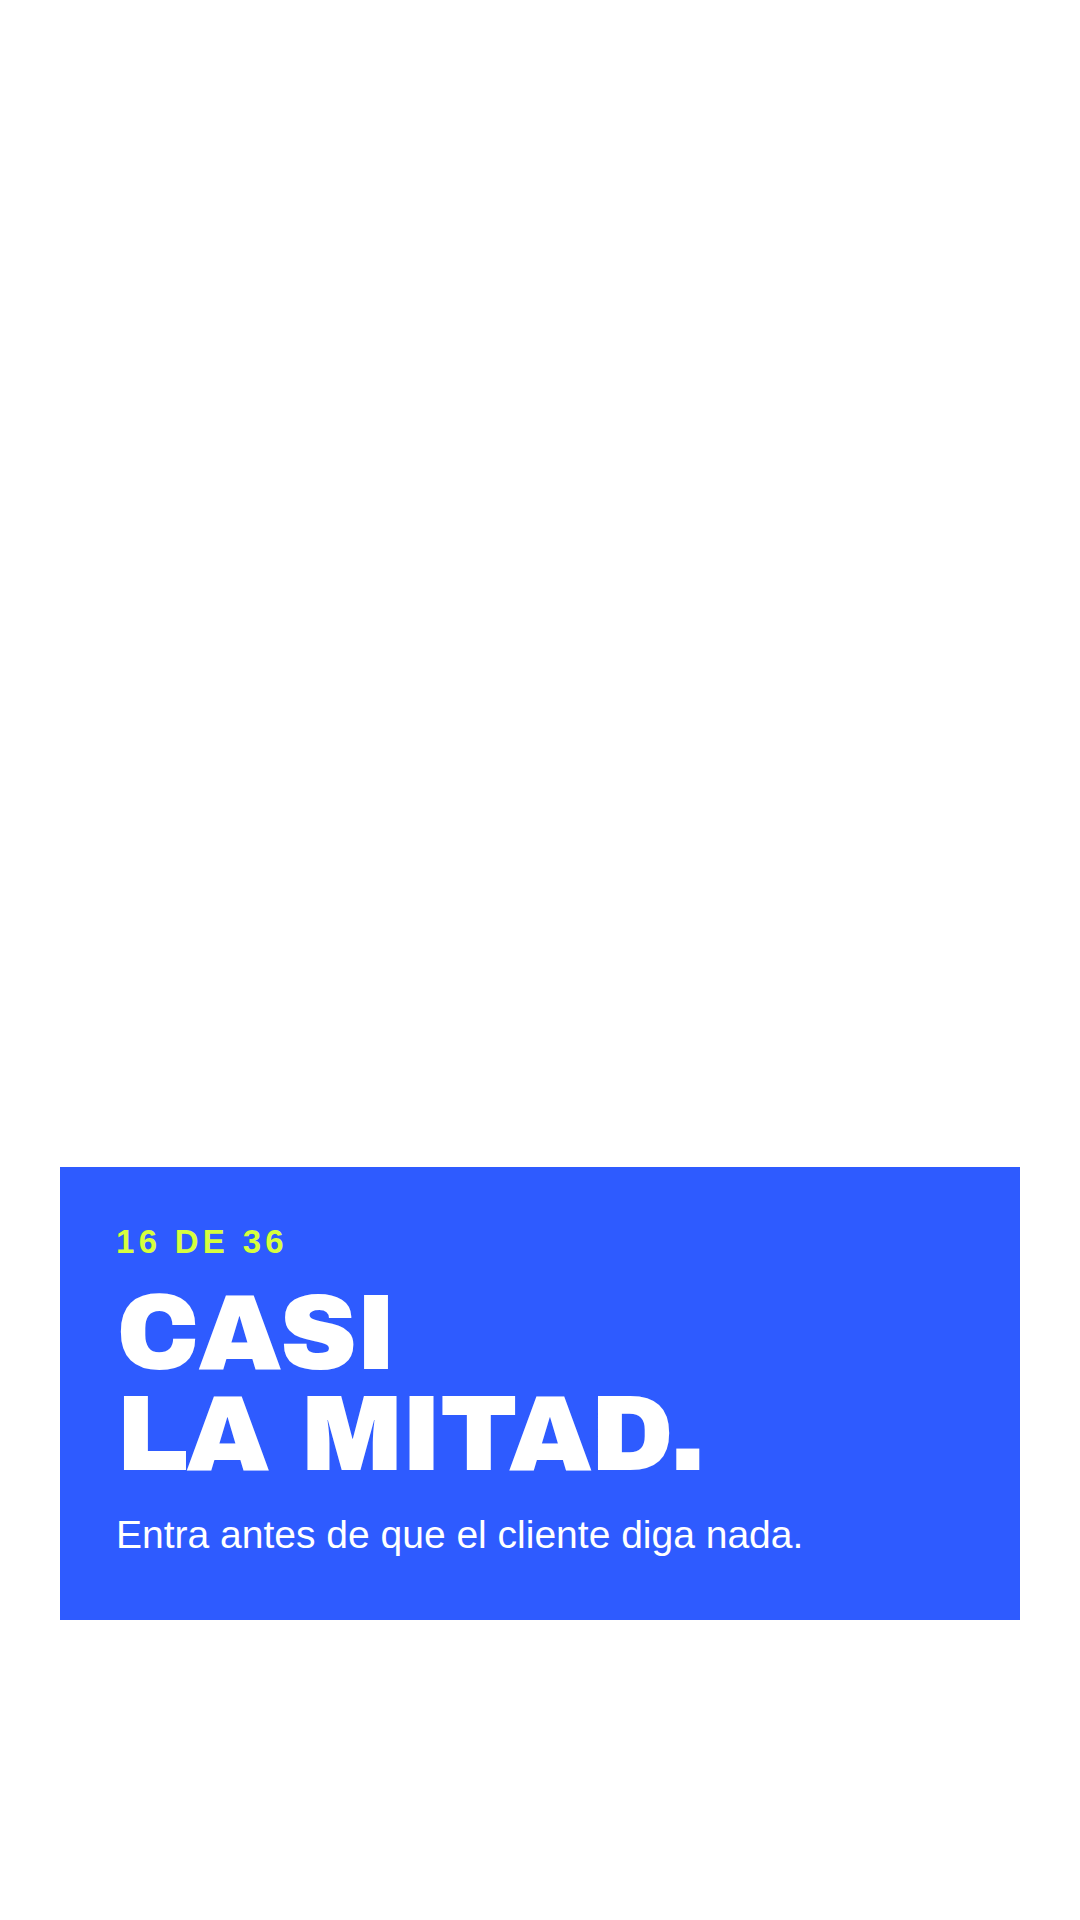
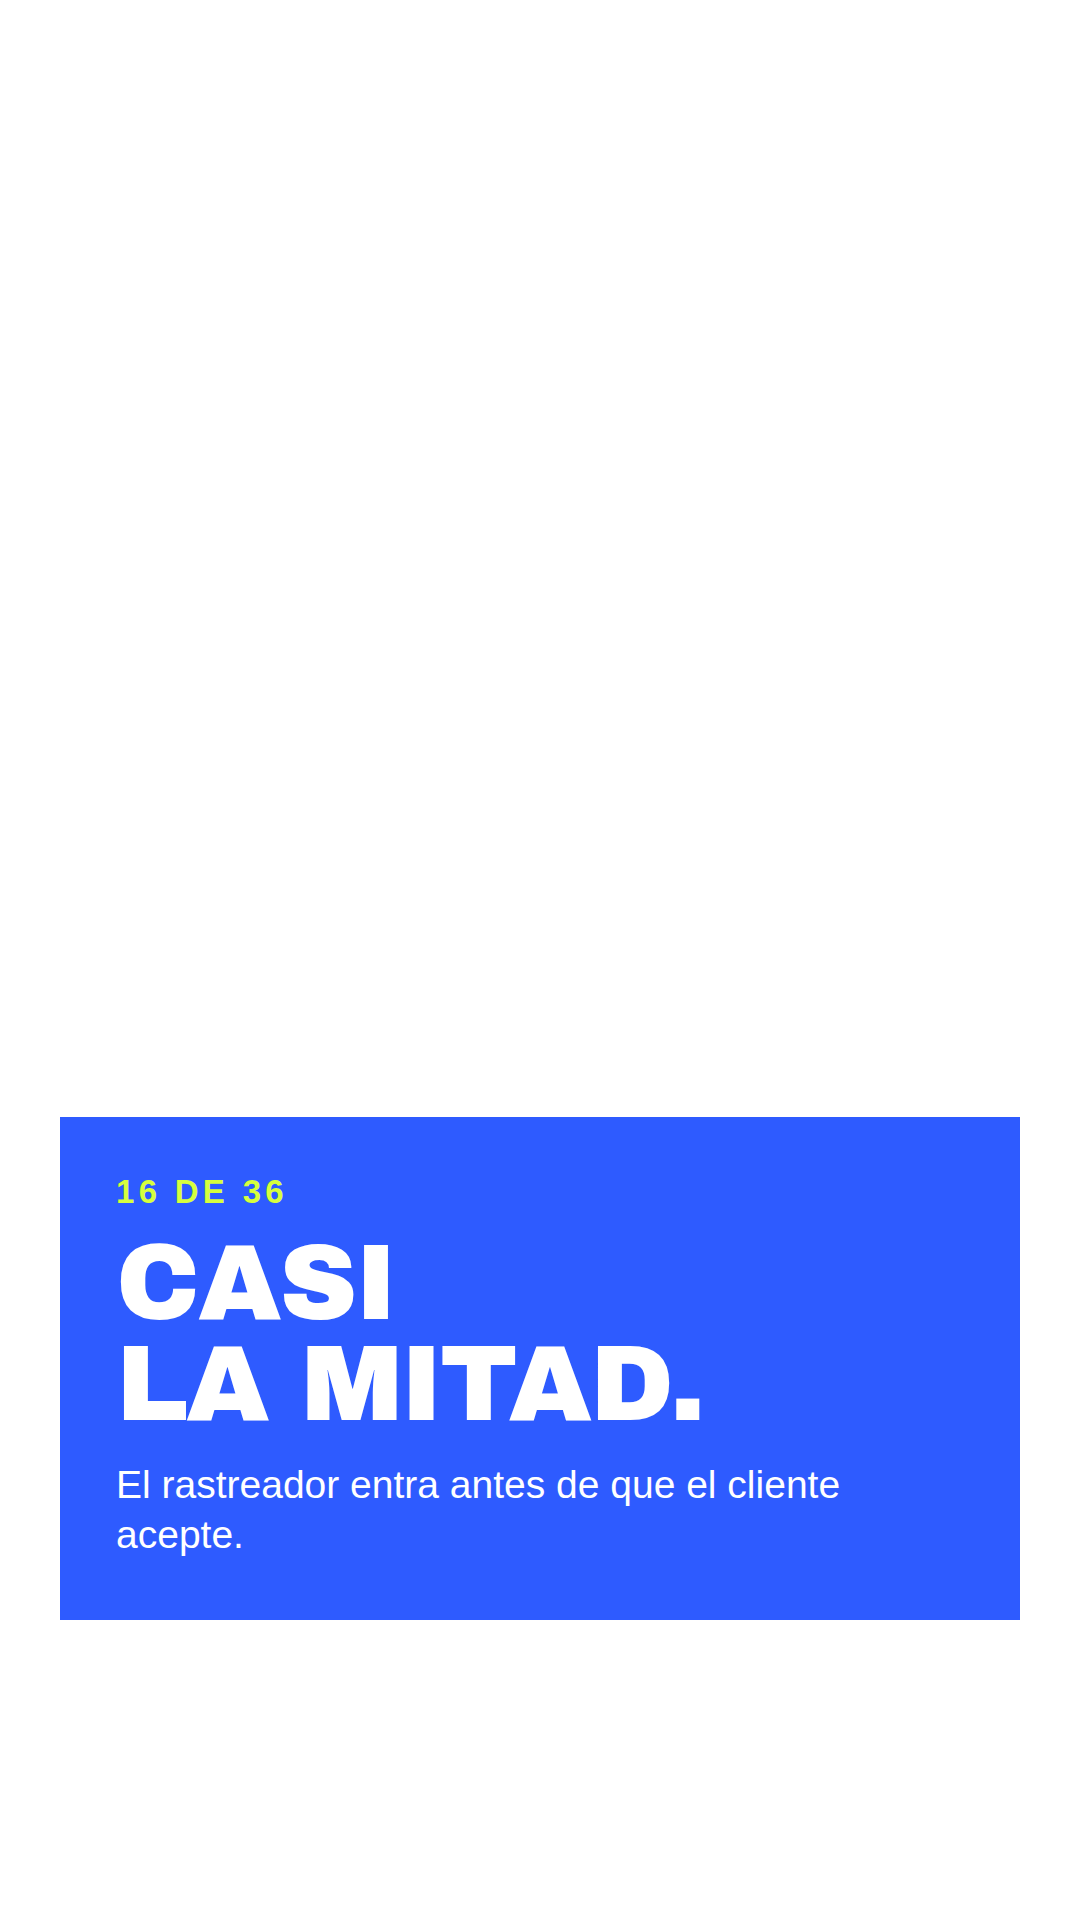
"Rastreador" en vez de "algo", y un solo tu por guion
Dos rechazos de Ramon ensayando, y los dos dejan regla.

(a) "Algo" no es una palabra. El 30-oct saque "cookie" por tecnica y la reemplace
por "algo": pase de demasiado tecnico a vacio. Desde ahi todas las frases
siguientes apuntaban a un hueco, y por eso Ramon no entendia ninguna: "se arregla
con un cartel" que cosa, "la herramienta de medicion" cual, "si dice que si"
quien. Era un solo defecto, no cuatro.

La palabra que sirve es "rastreador": cualquiera la entiende y carga el peligro
ella sola. Y "cookies" vuelve, pero solo para nombrar el cartel, que es como todo
el mundo lo reconoce. Una palabra tecnica puede estorbar en un tramo y ayudar en
otro; la regla del 30-oct queda matizada asi.

(b) El "tu" cambiaba de dueno a mitad de frase. Todo el guion le habla al dueno
del cafe, pero "si aceptas cookies" le habla al visitante. Queda "que le pregunta
al cliente si acepta las cookies". Revisados los dieciseis renglones, esa era la
unica fuga.

Regla: un guion tiene un solo "tu", y es el que compra. Lo que NO es fuga, y queda
dicho para que nadie lo iguale: la tarjeta del cartel si le habla al visitante,
porque ahi no habla Ramon, habla el cartel.

Tarjetas g1-1 y g1-2 al dia con la palabra nueva.

Claude-Session: https://claude.ai/code/session_01CR5SfVdVRLCtMzHMRctqPx

Changed region(s): [[0.0611, 0.5625, 0.9472, 0.8125]]

diff --git a/marketing/redes/2026-11-noviembre-verifica/tarjetas/overlay-bloque.html b/marketing/redes/2026-11-noviembre-verifica/tarjetas/overlay-bloque.html
@@ -111,8 +111,8 @@
   // rehace aca. Azul 0, rosa 0 en toda la tanda.
   const T = [
     // ---- Guion 1 · cafes ----
-    { id:'g1-1', etiqueta:'',             linea:'LO GUARDA<br>SIN PREGUNTAR.',          cuerpo:'' },
-    { id:'g1-2', etiqueta:'16 de 36',     linea:'CASI<br>LA MITAD.',                    cuerpo:'Entra antes de que el cliente diga nada.' },
+    { id:'g1-1', etiqueta:'',             linea:'UN RASTREADOR<br>SIN PREGUNTAR.',      cuerpo:'' },
+    { id:'g1-2', etiqueta:'16 de 36',     linea:'CASI<br>LA MITAD.',                    cuerpo:'El rastreador entra antes de que el cliente acepte.' },
     { id:'g1-3', etiqueta:'',             linea:'PUEDES SEGUIR<br>MIDIENDO.',           cuerpo:'Preguntándole al cliente primero.' },
     { id:'g1-4', cartel:{ t:'¿Medimos tu visita?', p:'Para saber si nuestra publicidad funcionó. Puedes decir que no.', b1:'Aceptar', b2:'No, gracias' } },
     // ---- Guion 2 · salud ----

diff --git a/marketing/redes/2026-11-noviembre-verifica/tarjetas/overlay.html b/marketing/redes/2026-11-noviembre-verifica/tarjetas/overlay.html
@@ -106,8 +106,8 @@
   // rehace aca. Azul 0, rosa 0 en toda la tanda.
   const T = [
     // ---- Guion 1 · cafes ----
-    { id:'g1-1', etiqueta:'',             linea:'LO GUARDA<br>SIN PREGUNTAR.',          cuerpo:'' },
-    { id:'g1-2', etiqueta:'16 de 36',     linea:'CASI<br>LA MITAD.',                    cuerpo:'Entra antes de que el cliente diga nada.' },
+    { id:'g1-1', etiqueta:'',             linea:'UN RASTREADOR<br>SIN PREGUNTAR.',      cuerpo:'' },
+    { id:'g1-2', etiqueta:'16 de 36',     linea:'CASI<br>LA MITAD.',                    cuerpo:'El rastreador entra antes de que el cliente acepte.' },
     { id:'g1-3', etiqueta:'',             linea:'PUEDES SEGUIR<br>MIDIENDO.',           cuerpo:'Preguntándole al cliente primero.' },
     { id:'g1-4', cartel:{ t:'¿Medimos tu visita?', p:'Para saber si nuestra publicidad funcionó. Puedes decir que no.', b1:'Aceptar', b2:'No, gracias' } },
     // ---- Guion 2 · salud ----

diff --git a/marketing/redes/2026-11-noviembre-verifica/00-tanda-cuatro-reels.md b/marketing/redes/2026-11-noviembre-verifica/00-tanda-cuatro-reels.md
@@ -244,18 +244,23 @@ Una frase por renglón, que es como manda leerlo el manual. Las `/` son respirac
 cortes.
 
 > Pagar publicidad en Instagram está **bien**. / Medir si **funcionó**, también. //
-> **Pero** para medir, / tu sitio guarda algo / en el teléfono del **cliente**. //
-> Y lo guarda / antes de que **acepte** nada. //
+> **Pero** para medir, / tu sitio instala un **rastreador** de Facebook / en el teléfono del
+> **cliente**. //
+> Sirve para reconocerlo cuando **vuelva**. //
+> Y se instala antes de que el cliente **acepte** nada. //
 > En casi la **mitad** de los cafés y pastelerías que **revisé**, / pasa eso mismo. //
-> No es que tu sitio esté **mal hecho**. / Es lo que instalaste para **medir**, funcionando. //
-> Puedes seguir **midiendo** igual. / Solo hay que preguntarle al cliente **primero**. //
-> Y esa pregunta va a ser **obligatoria** por ley. //
-> Es una **franja** abajo de tu sitio / que le pregunta al cliente si **acepta**. //
-> Hice un chequeo **gratis** / que te dice si tu sitio tiene esa **franja**. //
+> No es que tu sitio esté **mal hecho**. //
+> El rastreador vino con la **publicidad**, / y trabaja apenas alguien **entra**. //
+> Nadie le dijo que **esperara**. //
+> Se arregla con ese **cartel** / que le pregunta al cliente / si acepta las **cookies**. //
+> El que **ves** en cualquier sitio europeo. //
+> Si el cliente **acepta**, / mides igual que **hoy**. //
+> Y preguntar **primero** va a ser obligatorio por ley. //
+> Hice un chequeo **gratis** / que te dice si tu sitio lo **tiene**. //
 > Soy **Ramón**, de SpindleLab. //
 > **Medir** está bien. / Preguntar **primero**, también. //
 
-**118 palabras, 41 segundos.** Largo por renglón: 6, 4, 15, 15, 16, 11, 9, 14, 13, 4, 7.
+**133 palabras, 46 segundos.**
 
 **Versión 9, del 30-oct.** Ramón tiene aprobada la apertura, la costura y todo lo que va de la
 franja hacia abajo. **La palabra «cookie» no aparece en ningún guion hablado de esta campaña**, por
@@ -751,3 +756,36 @@ pago. **Se toma la arquitectura, no el tono.**
 
 ⚠ **Pendiente: los otros tres guiones no tienen quita-excusas ni la prueba subida.** Salud,
 contabilidad y tutorial se escribieron antes de esta guía y hay que pasarlos por el mismo chequeo.
+
+### 2-nov-2026 · nombrar la cosa, y el «tú» que cambiaba de dueño
+
+Dos rechazos de Ramón ensayando en voz alta, y los dos valen como regla.
+
+**(a) «Algo» no es una palabra.** Ramón: *"tu sitio guarda algo en el teléfono del cliente. ¿Qué es
+eso? ¿Guarda un seguimiento?... ¿qué es lo peligroso? Entonces no se entiende ahí"*. Y después, en
+cadena: *"la herramienta de medición, ahí no entiendo"*, *"se arregla con un cartel, ahí tampoco"*.
+
+**Era un solo defecto, no cuatro.** El 30-oct saqué la palabra «cookie» por técnica y la reemplacé
+por «algo». **Pasé de demasiado técnico a vacío**, y desde ahí todas las frases siguientes apuntaban
+a un hueco: *se arregla* ¿qué?, *la herramienta* ¿cuál?, *si dice que sí* ¿quién?
+
+La palabra que sirve es **«rastreador»**: cualquiera la entiende y **carga el peligro ella sola**, sin
+que el guion tenga que explicar por qué es malo. Y la frase siguiente dice para qué sirve (*reconocerlo
+cuando vuelva*), que es lo que Ramón pedía.
+
+⚠ **Y «cookies» vuelve, pero en otro lugar.** Se usa **solo para nombrar el cartel**, que es como
+todo el mundo lo reconoce, no para describir el peligro. **Una palabra técnica puede estorbar en un
+tramo y ayudar en otro**; la regla del 30-oct («cookie no va en ningún guion hablado») queda matizada
+así.
+
+**(b) El «tú» cambiaba de dueño a mitad de frase.** Ramón: *"se arregla con ese cartel que pregunta
+si aceptas cookies. Ahí cambia la figura. ¿A quién le estamos hablando?"*. Tenía razón: todo el guion
+le habla al dueño del café (*tu sitio*, *mides*, *ves*), pero *«si aceptas cookies»* le habla al
+visitante. Queda *«que le pregunta al cliente si acepta las cookies»*.
+
+**Regla: un guion tiene un solo «tú», y es el que compra.** Todos los demás van en tercera persona.
+Se revisaron los dieciséis renglones y esa era la única fuga.
+
+✅ **Lo que NO es una fuga, y conviene que nadie lo «arregle»:** la tarjeta del cartel sí le habla al
+visitante (*«¿Medimos tu visita?»*). Ahí no habla Ramón, habla el cartel. **Son dos voces distintas y
+tiene que notarse.**
